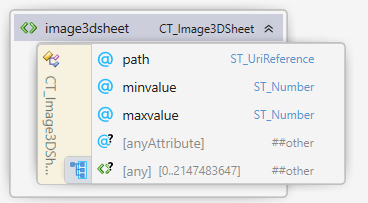
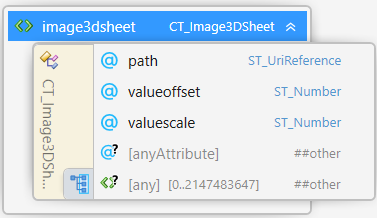
Change image3dsheet min/max to offset and scale

diff --git a/3MF Volumetric Extension.md b/3MF Volumetric Extension.md
@@ -159,12 +159,17 @@ Element **\<image3dsheet>**
 | Name   | Type   | Use | Annotation |
 | --- | --- | --- | --- |
 | path | ST\_UriReference | required | Specifies the OPC part name (i.e. path) of the image data file |
-| minvalue | ST\_Number | _0.0_ | Specifies how the minimal possible value of a channel in this image is interpreted as output. |
-| maxvalue | ST\_Number | _1.0_ | Specifies how the maximal possible value of a channel in this image is interpreted as output. |
+| valueoffset | ST\_Number | _0.0_ | Specifies a numerical offset for the values obtained from any channel this `image3dsheet`. |
+| valuescale | ST\_Number | _1.0_ | Specifies a numerical scaling for the values obtained from any channel this `image3dsheet`. |
 
 Each \<image3dsheet> element has one required attribute. The path property determines the part name (i.e. path) of the 2D image data (see chapter 6 of the Materials & Properties Extension specification for more information).
 
-The `minvalue` and `maxvalue` determine how the minamal and maximal value of any channel within the referenced PNG-file shall be interpreted. Channel values inbetween must be linearly interpolated. Specifying different `minvalue` and `maxvalue`-attributes for different \<image3dsheet>s is optional, but allows producers to more efficiently encode values in different regions of an object.
+The `valueoffset` and `valuescale` determine how the numerical values of any channel within the referenced PNG-file shall be interpreted.
+If a channel in the image-file of this \<image3dsheet> holds a numerical value `V`, it needs to be sampled as `V' = V*valuescale + valueoffset`.
+Specifying different `valueoffset` and `valueoffset`-attributes for different \<image3dsheet>s is optional, but allows producers to more efficiently encode values in different regions of an object.
+
+Any interpolation of values of an \<image3dsheet>-element (c.f. TODO) MUST be performed on the rescaled values `V'` according to the formula above.
+
 
 ## 3.3. Channel from Image3D
  
